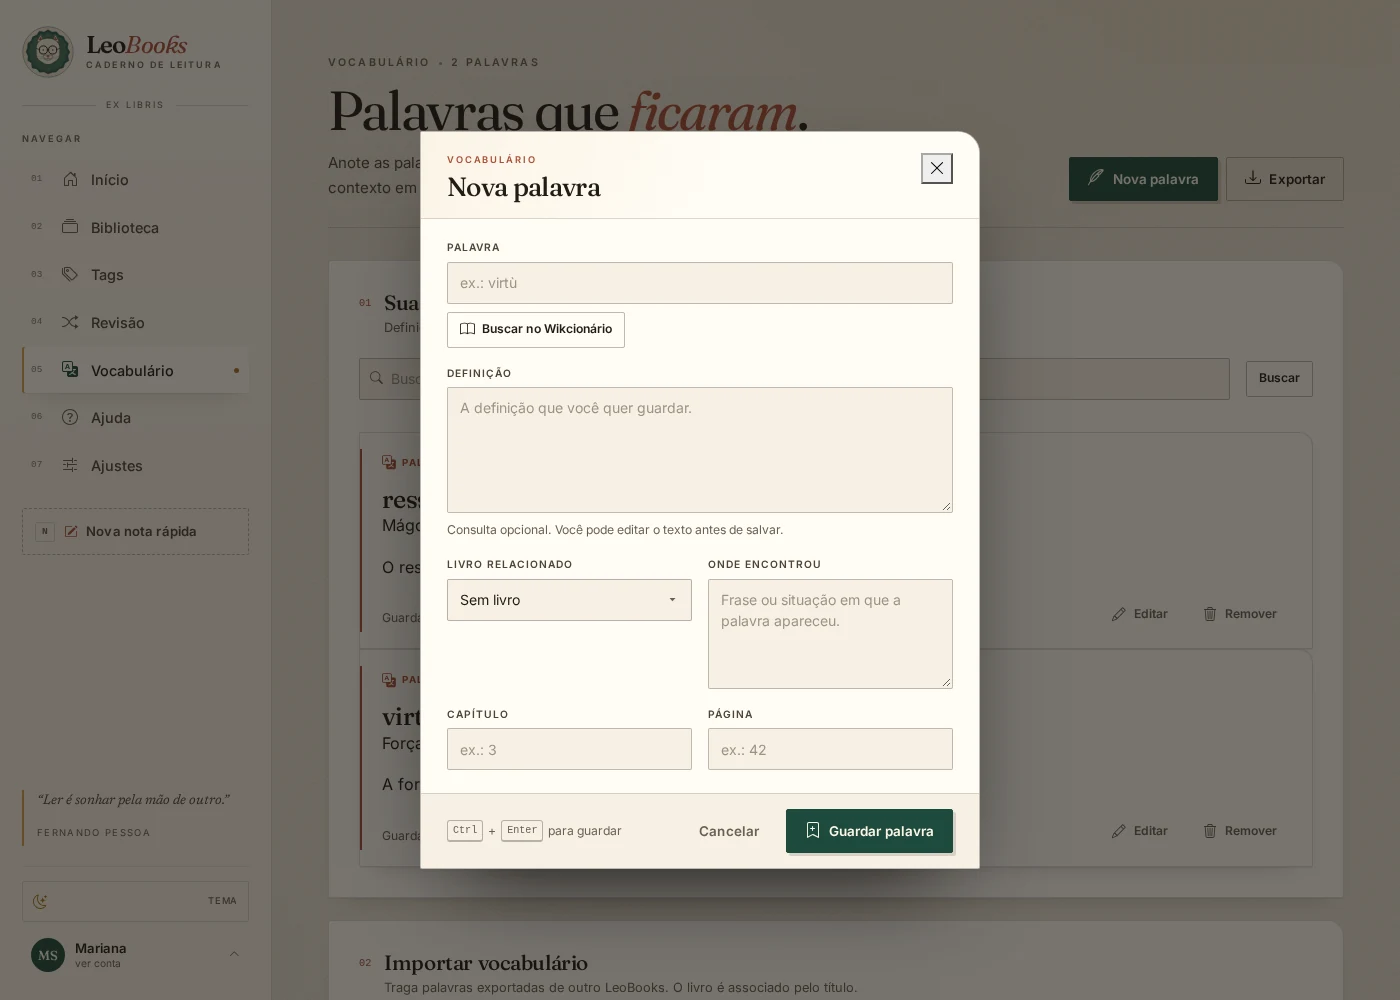
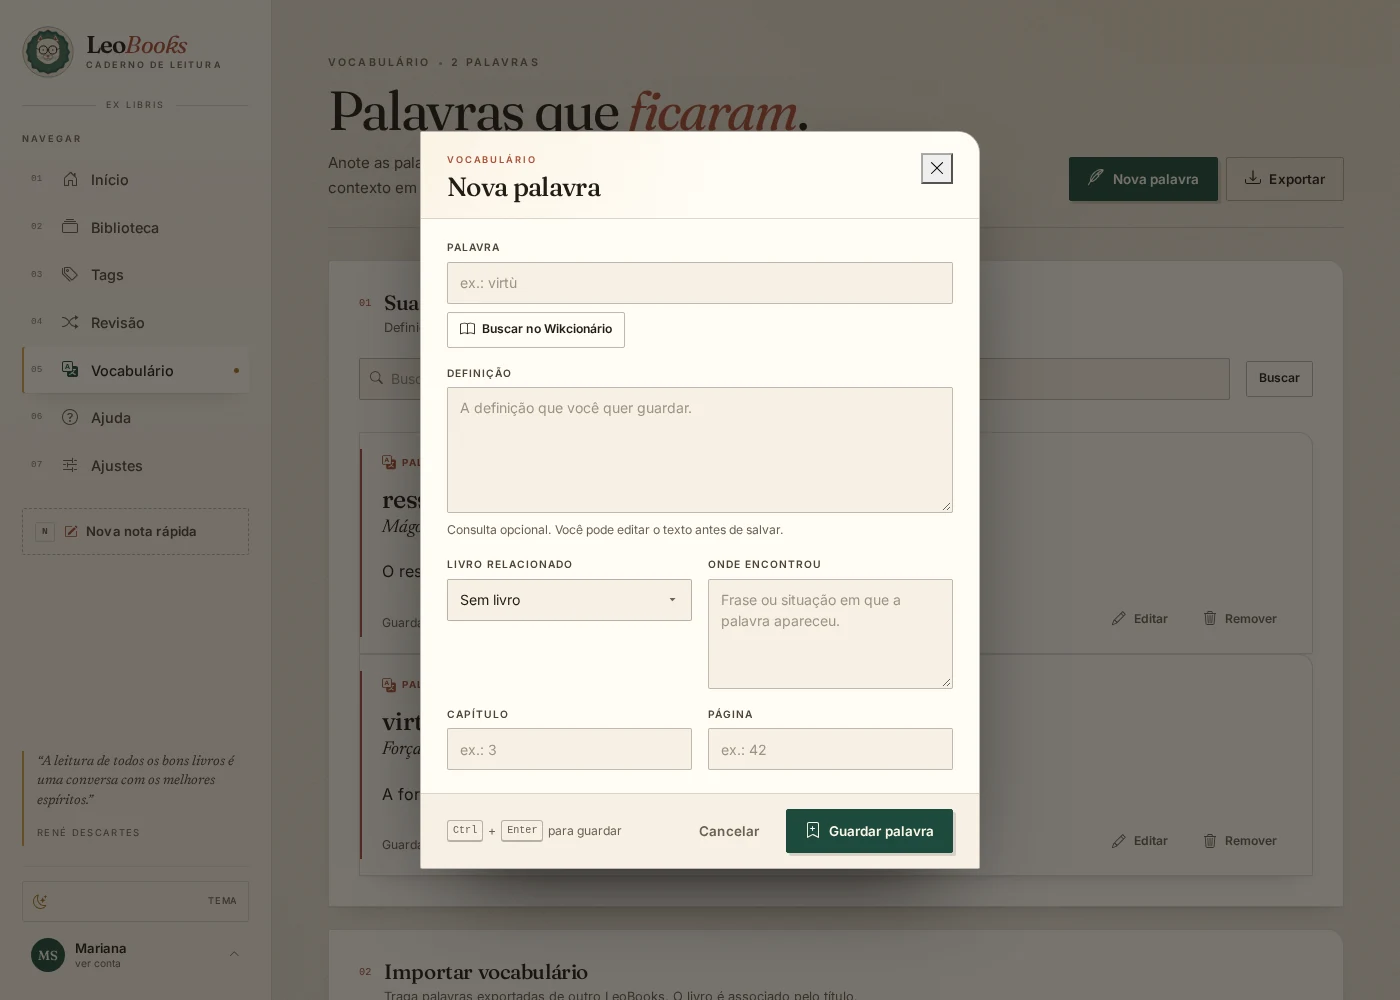
usa a fonte manuscrita em resumos, insights e vocabulário
O corpo desses textos acompanha a fonte de leitura das citações, mantendo títulos, tags e metadados com a tipografia atual.

diff --git a/static/css/style.css b/static/css/style.css
@@ -1745,6 +1745,17 @@ a.lb-tag:hover {
 .lb-quote strong { font-style: normal; }
 .lb-quote em { font-style: normal; color: var(--lb-clay); }
 
+/* Resumos, insights e definições usam a mesma voz manuscrita das citações. */
+.lb-note--summary .lb-markdown,
+.lb-note--insight .lb-markdown,
+.lb-vocabulary-definition {
+  font-family: var(--lb-reading);
+  font-size: 1.17rem;
+  font-style: italic;
+  line-height: 1.62;
+  color: var(--lb-ink);
+}
+
 .lb-markdown {
   font-size: 0.9rem;
   line-height: 1.68;

diff --git a/templates/vocabulary.html b/templates/vocabulary.html
@@ -71,7 +71,7 @@
           </header>
           <div class="lb-note__body">
             <h3 class="lb-section__title">{{ entry.word }}</h3>
-            <p>{{ entry.definition|replace('\n', ' · ') }}</p>
+            <p class="lb-vocabulary-definition">{{ entry.definition|replace('\n', ' · ') }}</p>
             {% if entry.context %}
               <blockquote class="lb-note__quote">{{ entry.context }}</blockquote>
             {% endif %}

diff --git a/templates/book_detail.html b/templates/book_detail.html
@@ -209,7 +209,7 @@
                   <i class="bi bi-pencil"></i> Editar
                 </a>
               </div>
-              <p class="mb-1 mt-2">{{ entry.definition|replace('\n', ' · ') }}</p>
+              <p class="lb-vocabulary-definition mb-1 mt-2">{{ entry.definition|replace('\n', ' · ') }}</p>
               {% if entry.context %}
                 <p class="lb-hint mb-1">{{ entry.context }}</p>
               {% endif %}

diff --git a/CHANGELOG.md b/CHANGELOG.md
@@ -2,6 +2,8 @@
 
 ## Não lançado
 
+- Resumos, insights e definições do vocabulário agora usam a mesma fonte de
+  leitura manuscrita das citações.
 - A revisão de citações passou a sortear uma nova citação, sem seguir a ordem
   de criação e sem repetir imediatamente a atual.
 - Corrigido o alinhamento do botão **Editar** no vocabulário do livro, que
